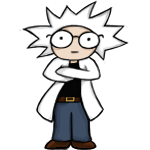
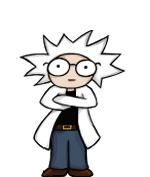
chore: dodat asset
Sitna izmena. Dodat Tile asset za prvi nivo i popravljena pozicija NPC-ja i portala u prvom nivou

Changed region(s): [[0.1333, 0.0, 0.8533, 1.0]]

diff --git a/timesweeper/Source/Level.cpp b/timesweeper/Source/Level.cpp
@@ -81,7 +81,7 @@ QGraphicsScene* Level::LoadLevel()
         QString tiles = in.readLine();
         for(int x = 0; x < sizeX-1; x++){
             if(game->levelID == 1) // TODO - obrisati kasnije
-                AddObject(scene, tiles[x].toLatin1(), x*45, y*45);
+                AddObject(scene, tiles[x].toLatin1(), x*44, y*44);
             else // ostali nivoi (45x45 - dimenzija tile-a)
                 AddObject(scene, tiles[x].toLatin1(), x*45, y*45);
         }

diff --git a/timesweeper/Source/Tile.cpp b/timesweeper/Source/Tile.cpp
@@ -7,7 +7,7 @@ extern Game *game;
 Tile::Tile(char tile, QGraphicsPixmapItem *parent)
 {
     if(game->levelID == 1){ // TODO - promeniti tile za ovaj nivo!
-        setPixmap(QPixmap(":/Images/Resources/testtile.png"));
+        setPixmap(QPixmap(":/Terrain/Resources/Terrain/Level_1_Tiles/floor_tile.png"));
     }
     else if(game->levelID == 2){
         if(tile == '=') // pod
